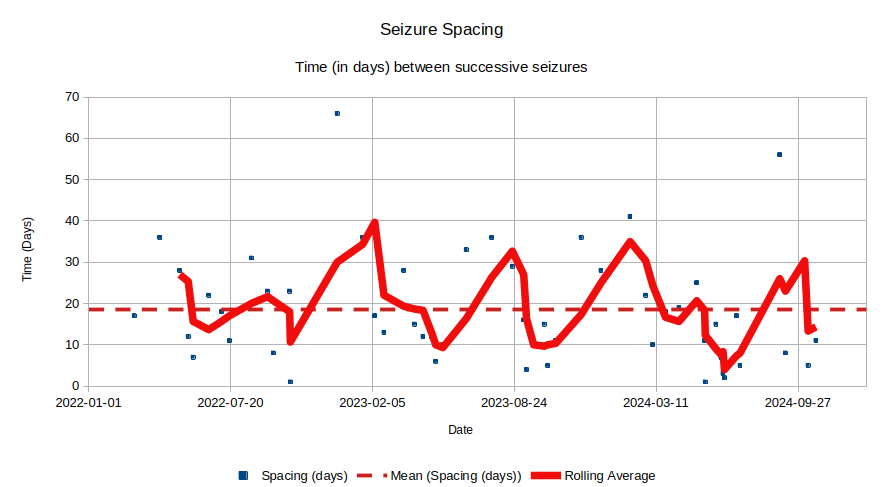
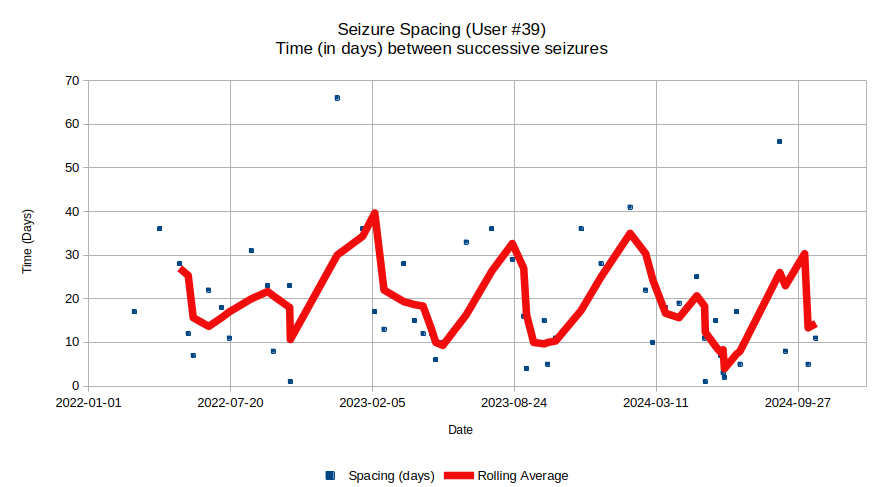
Started adding code description for new developers...

diff --git a/pages-developer/performance_analysis_nocturnal/performance_analysis_nocturnal.md b/pages-developer/performance_analysis_nocturnal/performance_analysis_nocturnal.md
@@ -4,28 +4,47 @@ title: Analysis of the Performance of OpenSeizureDetector for Nocturnal Use
 ---
 
 # Introduction
-We developed OpenSeizureDetector (OSD) for our son, Benjamin to detect notcturnal tonic-clonic seizures.   He uses the seizure detector whenever he is in his bedroom alone and sometimes when he is in the bathroom, but does not wear it for his day time activities when he is always with a carer so does not need a seizure detector.
+We know that at least one user (User #39) has recorded all of their (known) seizures and false alarms into the Data Sharing database since the Data Sharing feature was added to OpenSeizureDetector in 2022.    This particular user only uses OpenSeizureDetector when alone in his room and not during normal daytime activities when a carer is always with him.    This dataset therefore provides the opportunity to assess the performance of OpenSeizureDetector in real-world operation for nocturnal seizure monitoring.
 
-We have recorded all of his seizures and false alarms since we introduced the Data Sharing feature of OpenSeizureDetector in 2022 so we now have over 18 months of data available to allow us to assess the 'real world' performance of the system for one particular user over an extended period.
+Note that this user also utilises a video monitor to allow carers to identify seizures in addition to OpenSeizureDetector.   It is often the case that the carers are alerted to a seizure by unusual sounds or by noticing an unusual posture during the 'tonic' phase of the seizure before OpenSeizureDetector alarms during the 'clonic', shaking part of the seizure.   This has caused some seizures to be reported and included in the database which were not detected by OSD.
+
+It is possible that there were more seizures than were recorded in the database if both OSD and the manual observation missed them.  However from experience the vast marjority of seizures occur on waking the carers are accustomed to listening for unusual sounds around waking time, so believe that the number of missed seizures will be low.
+
+The purpose of this analysis is to present the 'real world' performance of OpenSeizureDetector (seizure detection reliability and false alarm rate) so that prospective users can know what to expect in terms of performance and can compare that to other open source or commercially available devices (where they publish similar data for their systems).
 
 # Methodology
 
-This analysis is based on Version 1.7 of the [Open Seizure Database](https://www.openseizuredetector.org.uk/?page_id=1818), with the data of this one particular user extracted from the .csv index files (rather than analysing the large .json files containing the raw data).
+This analysis is based on Version 1.7 of the [Open Seizure Database](https://www.openseizuredetector.org.uk/?page_id=1818), with the data of this one particular user extracted from the .csv index files which are provided with the database releases.    Note that it could have been performed by analysing the detailed .JSON files which contain all of the seizure data, but the index files provide sufficient information that this is not necessary.
 
-The 'All Seizures' data includes some seizures were not identified by OSD, but by observation of unusual sounds or posture via a video monitor.    This means it is possible that there were more seizures than were recorded in the database if both OSD and the manual observation missed them.  However from experience the vast marjority of seizures occur on waking so we are accustomed to listening for unusual sounds around waking time, so believe that the number of missed seizures will be low.
 
-The 'All Seizures' file was used to determine whether OpenSeizureDetector had correctly identified each seizure or not, so the detection reliability can be calculated  The False Alarms file was used to determine the false alarm rate (false alarms per day).   These calculations were performed by importing the Open Seizure Database Index .csv files into [LibreOffice](https://libreoffice.org) Calc and using a combination of pivot tables and simple formulae.
+The 'All Seizures' file was used to determine whether OpenSeizureDetector had correctly identified each seizure or not, so the detection reliability can be calculated  
 
-The analysis is complicated by a number of changes to OSD and the algorithm used during the period analysed - it had been realised that Benjamin was having a larger number of less severe seizures that often involved a low frequency 'flapping' movement of the arm and the OSD algorithm was not good at picking these up so some changes were made to improve performance over the period analysed.
+The False Alarms file was used to determine the false alarm rate (false alarms per day).   These calculations were performed by importing the Open Seizure Database Index .csv files into [LibreOffice](https://libreoffice.org) Calc and using a combination of pivot tables and simple formulae.
+
 
 # Results
 
-
-## Detection Reliability
-
+The database for user #39 contained seizures on 55 days between February 2022 and October 2024.   The data was analysed in terms of days because the database sometimes includes data for a seizure and also a period of recovery immediately afterwards which can appear as two separate events.   For the purpose of this analysis we treat those as a single seizure event.
+The time between seizures varies significantly, but averages at about 18 days between seizures as shown below:
 ![Seizure Spacing](./Seizure_Spacing_Graph.png)
 
+Many of the seizures were categorised as type 'Other' with a text description which generally describes it as being a partial seizure affecting only one side, often with the arm 'flapping' rather than shaking as would be expected in a tonic-clonic seizure.
+
+The user did however record 20 seizures as 'Tonic-Clonic'.
+
+## Detection Reliability
+### Tonic-Clonic Seizures
+17 out of the 20 tonic-clonic seizures generated a full alarm so were a successful detection.
+Of the three failures, the movement for one was described as 'flapping' so a lower frequency movement than expected for a tonic-clonic seizure.   The other two describe the user lying on the front, which could limit the movement of the watch arm compared to lying on the back.
+
+A success rate of 17 out of 20 is an 85% detection reliabililty for tonic-clonic seizures.
+
+### All Seizures
+Each seizure is plotted on the graph below with a vertical axis value of 1 if it generated a full alarm and zero if it failed to alarm.   A rolling average over 10 seizures is calculated to give a time varying seizure detection reliability as shown below.
+
 ![Detection Reliability](./Detection_Reliability_Graph.png)
+
+It can be seen that at the start of the period, the overall detection reliability was low (20%) because only the tonic-clonic seizures were generating full alarms with the partial seizures not being detected.
 
 
 

diff --git a/pages-developer/code_structure/garmin_watch_app.md b/pages-developer/code_structure/garmin_watch_app.md
@@ -1,0 +1,41 @@
+---
+layout: default
+title: Garmin Watch App
+---
+
+# Garmin Watch App
+
+## Source Code Repository
+
+The ([GarminSD](https://github.com/OpenSeizureDetector/Garmin_SD)) watch app is stored in its own [github](https://github.com/OpenSeizureDetector/Garmin_SD) repository.
+
+## Build Instructions
+
+The app is written in 'MonkeyC' which is quite like C++ but with less reliable type checking.   You need the Garmin SDK which includes the compiler, libraries and emulators.   
+
+The repository [README file](https://github.com/OpenSeizureDetector/Garmin_SD/blob/master/README.md) includes build instructions - I recommend using the Visual Studio Code method rather than the command line.
+
+## Code Structure
+### Source Code
+The MonkeyC source files are in the [source](https://github.com/OpenSeizureDetector/Garmin_SD/tree/master/source) folder.
+
+  - [GarminSDApp.mc](https://github.com/OpenSeizureDetector/Garmin_SD/blob/master/source/GarminSDApp.mc) is the app entry point.   It does the following:
+    - Defines the application lifecycle callbacks (initialize() onStart(), onStop() and getInitialView().
+    - Starts a timer which calls the onTick() function every second.
+    - Declares mState which recorts the operating state of the app (used in other components)
+    - getInitialView() specifies that the GarminSDView should be used for the initial display for the app.
+  -[GarminSDView.mc](https://github.com/OpenSeizureDetector/Garmin_SD/blob/master/source/GarminSDView.mc) handles drawing the display and interacting with user key presses.  It also starts GarminSDDataHandler which deals with receiving data from the sensors.
+    - onTick() is called from the GarminSDApp onTick function - it decides whether to re-draw the screen or not - we re-draw the screen as little as possible to reduce battery consumption.
+    - the SdDeligate class handles user interaction (menu selection, button presses etc.)
+    - the GarminSDSettingsMenu and GarminSDSettingsMenuDeligate classes handle display and user interaction of the app settings menu.
+  - [GarminSdDataHandler.mc](https://github.com/OpenSeizureDetector/Garmin_SD/blob/master/source/GarminSDDataHandler.mc)
+    - Creates an instance of GarminSDComms to handle communications between the watch and the phone.
+    - Starts the accelerometer collecting data.
+    - Starts the heart rate and O2 saturation sensors if they are selected in the watch app settings.
+    - accel_callback() is called whenever accelrometer data is available.   It adds the received data into a buffer and if the buffer is full, it sends the accelerometer data, heart rate and O2 saturation data to the phone using the GarminSdComms instance (mComms).
+  - [GarminSdComms](https://github.com/OpenSeizureDetector/Garmin_SD/blob/master/source/GarminSDComms.mc) handles sending the collected data to the phone,  receiving the response from the phone and responding to the received response (alerting the user to an alarm state etc.)
+
+### Resources
+Text strings are stored in the resources folder.   Alternative language translations are stored in resorces-<lang ID> folders.
+
+

diff --git a/pages-developer/code_structure/system_overview.md b/pages-developer/code_structure/system_overview.md
@@ -1,0 +1,19 @@
+---
+layout: default
+title: System Overview
+---
+
+# System Overview
+
+## End User Apps
+  - The system is centred around the main [OSD Android App](./osd_android_app.html).
+  - The OSD Android App receives data from watches using custom watch apps, which are specific to each supported device:
+     - Garmin: ([GarminSD](./garmin_watch_app)) 
+       - Note that there is a Fitbit watch app ([Fitbit_SD](./fitbit_watch_app.md)) which uses the same web interface as GarminSD but we have experienced connection reliability problems with the fitbit companion app so this is not currently supported.
+     - Pine Time ([PineTimeSD](./pinetime_watch_app.md).   
+
+
+## Developer Tools
+
+## Web Sites
+[Web Sites](./website.html)

diff --git a/pages-developer/code_structure/pinetime_watch_app.md b/pages-developer/code_structure/pinetime_watch_app.md
@@ -1,0 +1,11 @@
+---
+layout: default
+title: PineTime Watch App
+---
+
+# PineTime Watch App
+     - Pine Time ([PineTimeSD](https://github.com/OpenSeizureDetector/PineTimeSD)).   This sends data to the phone directly using Bluetooth Low Energy (BLE) and does not require a companion app to run, although the open source [GadgetBridge](https://play.google.com/store/apps/details?id=com.espruino.gadgetbridge.banglejs&hl=en) app is used to install the PineTimeSD firmware on the watch during the initial set-up.
+
+
+## Web Sites
+[Web Sites](./website.html)

diff --git a/pages-developer/code_structure/fitbit_watch_app.md b/pages-developer/code_structure/fitbit_watch_app.md
@@ -1,0 +1,10 @@
+---
+layout: default
+title: Fitbit Watch App
+---
+
+# Fitbit Watch App
+Fitbit watch app ([Fitbit_SD](https://github.com/OpenSeizureDetector/Fitbit_SD)) which uses the same web interface as GarminSD and uses the proprietary Fitbit companion app as the interface, similar to Garmin Connect.   We have experienced connection reliability problems with the fitbit companion app so this is not currently supported.
+
+## Web Sites
+[Web Sites](./website.html)

diff --git a/pages-developer/index.md b/pages-developer/index.md
@@ -13,7 +13,7 @@ title: OSD Development
 
 ## Code Structure
 
-...to follow...
+  - [System Overview](./code_structure/system_overview.html)
 
 ## Watches
   - [PineTime](./pinetime.html)

diff --git a/pages-developer/code_structure/banglejs_watch_app.md b/pages-developer/code_structure/banglejs_watch_app.md
@@ -1,0 +1,10 @@
+---
+layout: default
+title: BangleJS Watch App
+---
+
+# BangleJS Watch App
+
+
+## Web Sites
+[Web Sites](./website.html)

diff --git a/pages-developer/code_structure/osd_android_app.md b/pages-developer/code_structure/osd_android_app.md
@@ -1,0 +1,11 @@
+---
+layout: default
+title: OSD Android App
+---
+
+# OSD Android App
+
+
+
+## Web Sites
+[Web Sites](./website.html)
